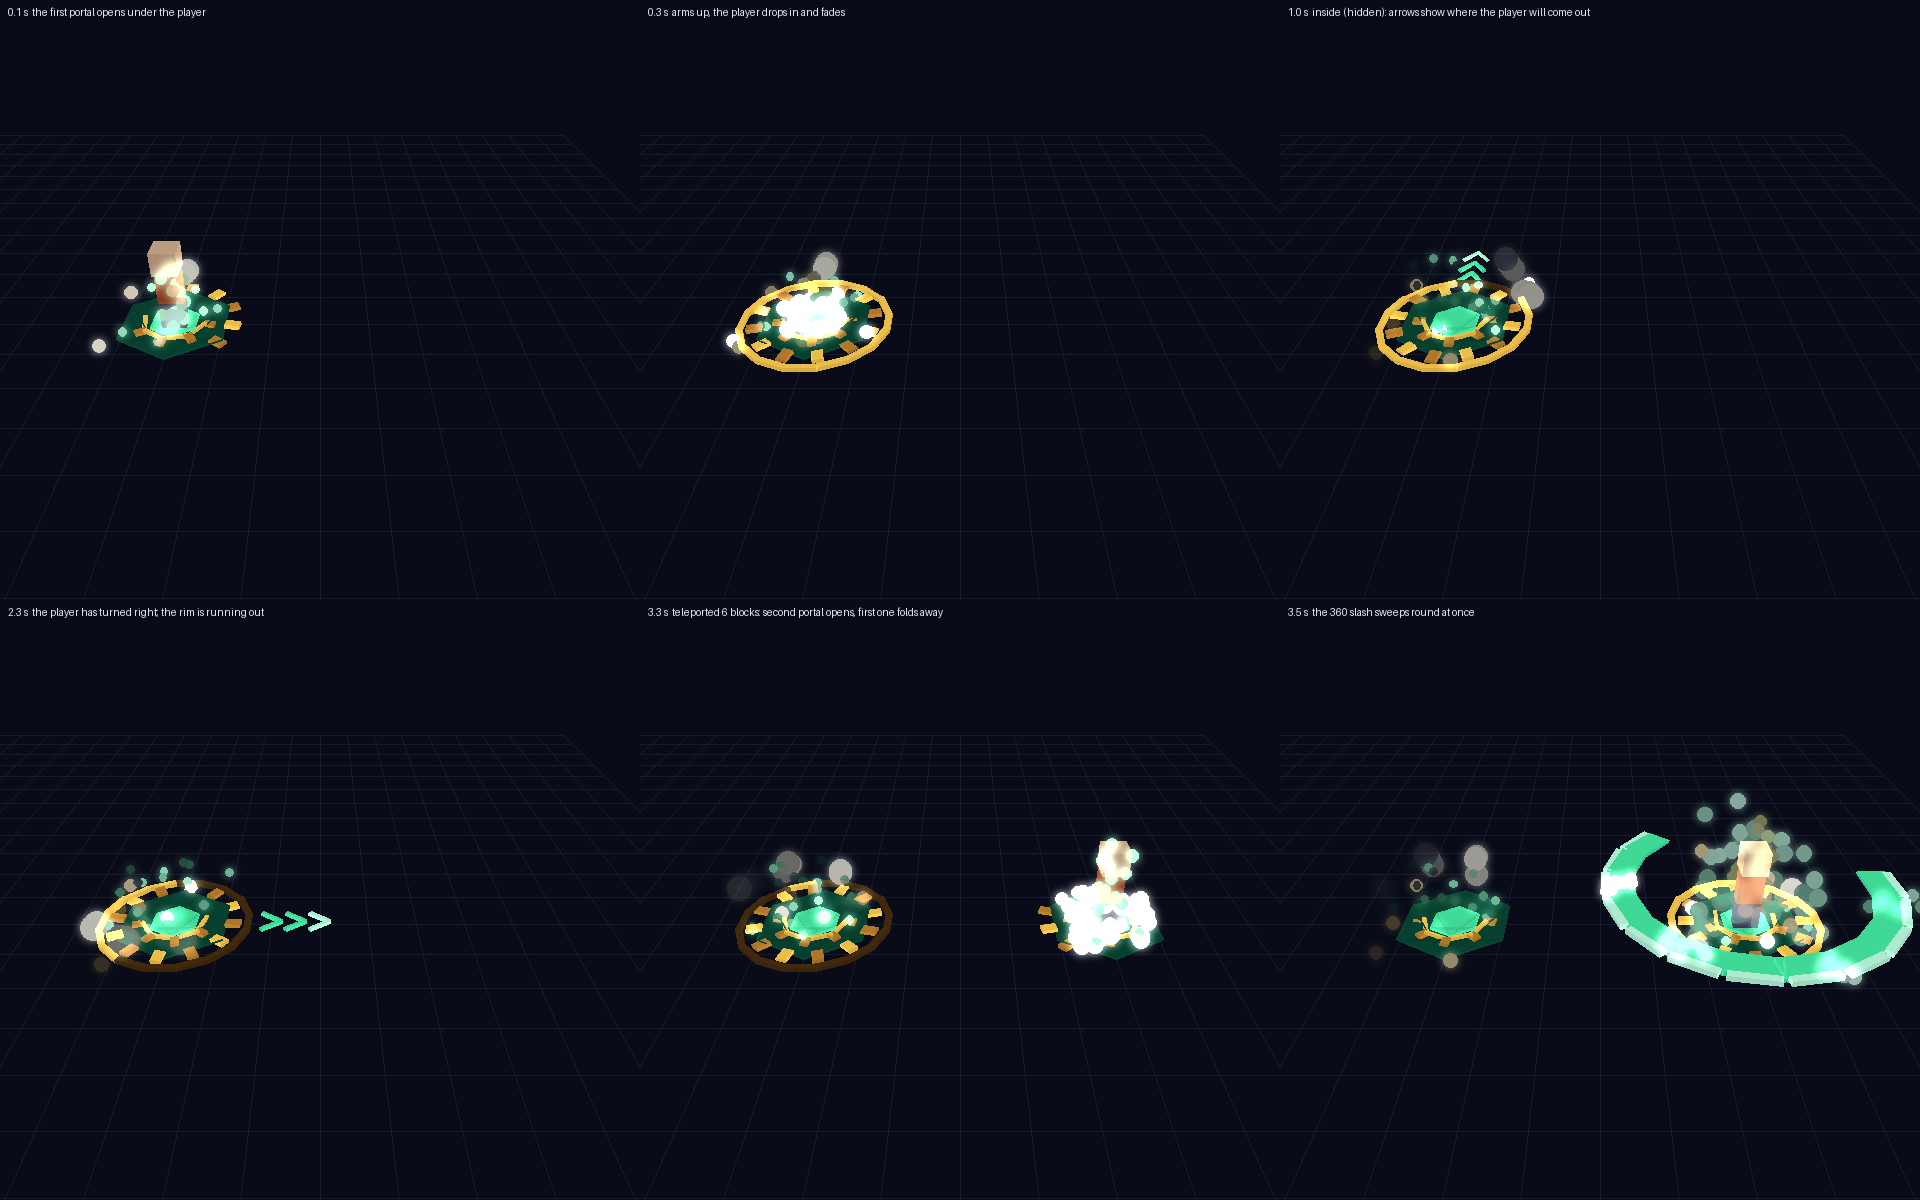
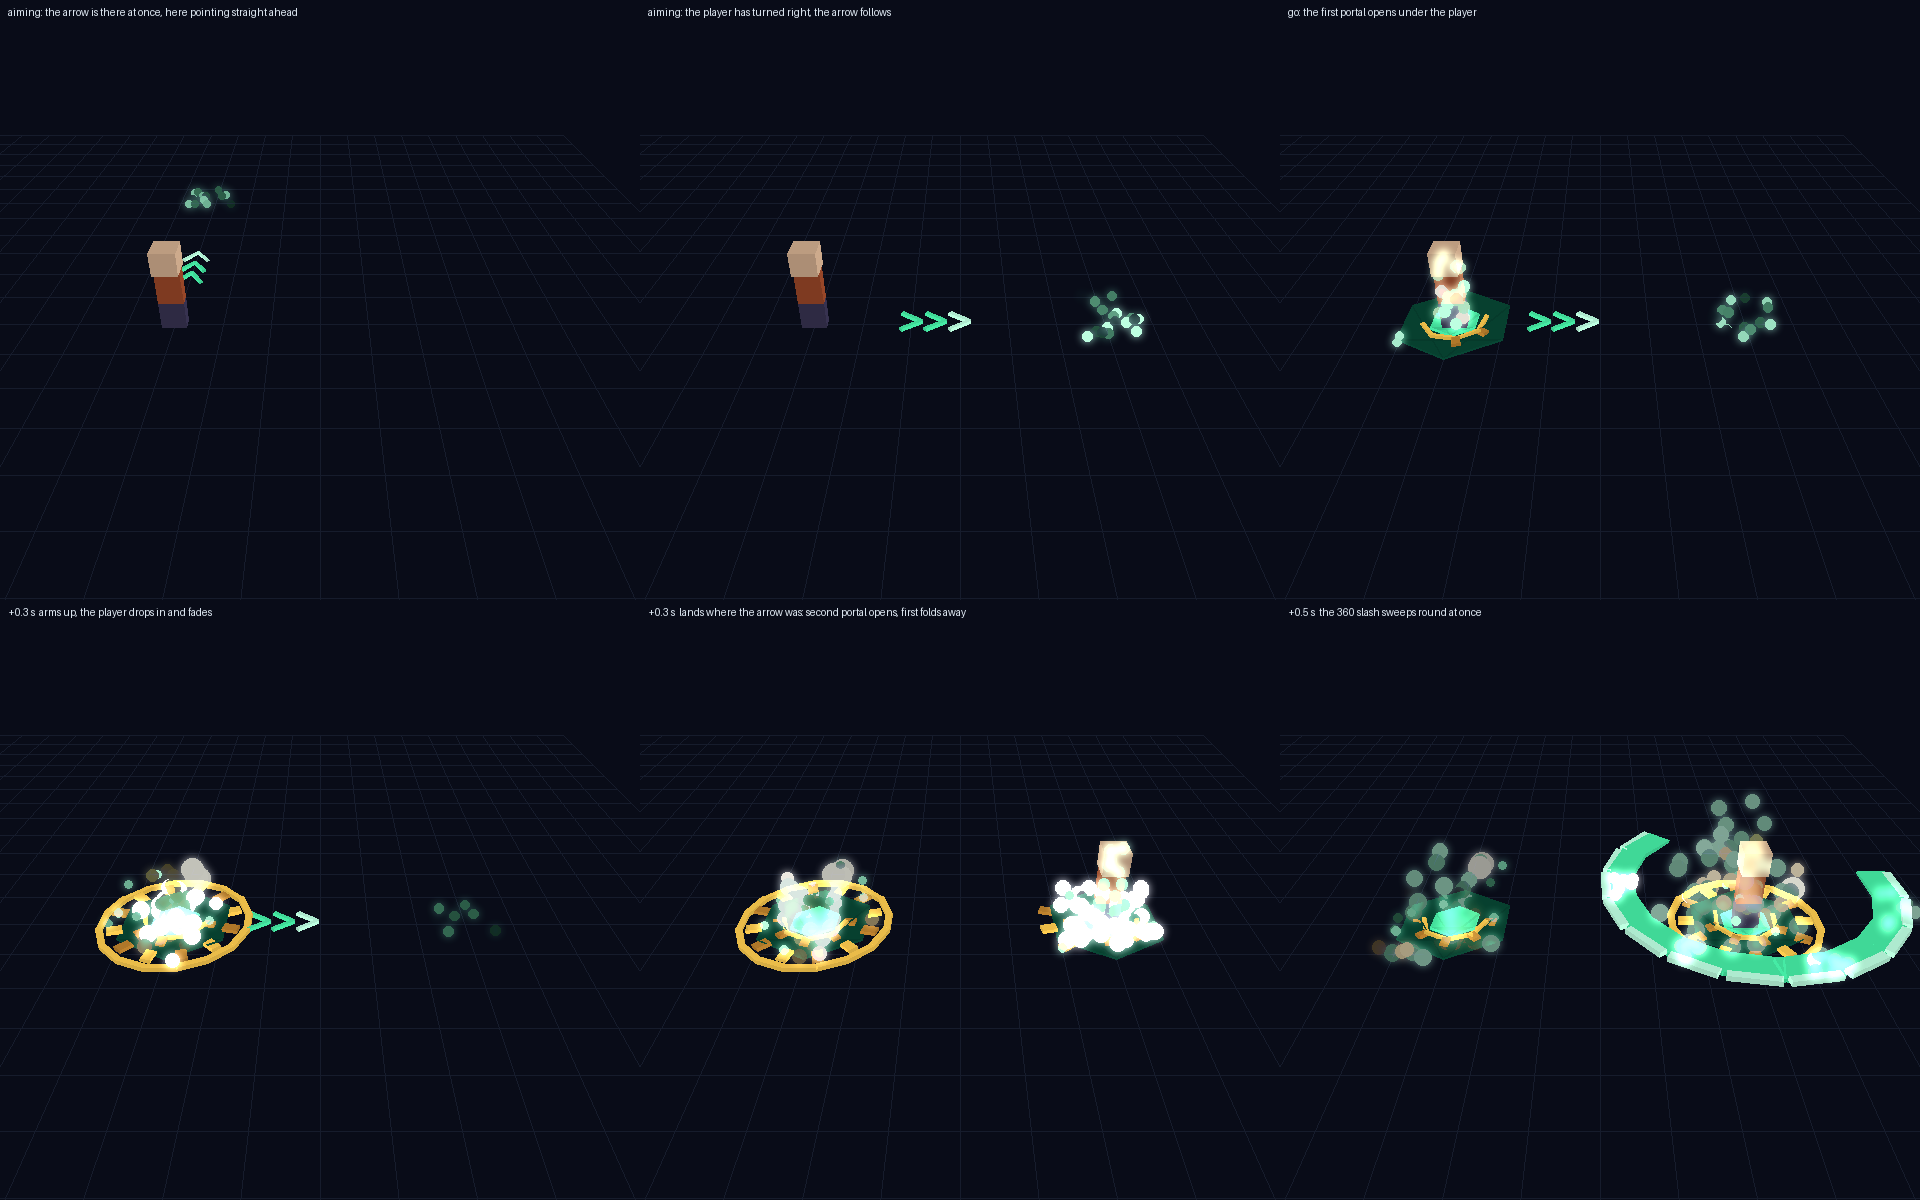
Gear Portal: arrow first, then the move goes where the arrow pointed

diff --git a/gear_portal/world_code.js b/gear_portal/world_code.js
@@ -1,7 +1,7 @@
 var GATE_CFG = {
   chat: "!portal",
   travel: 6,
-  stay: 3,
+  aimTime: 3,
   slashRadius: 3,
   damage: 25,
   knockback: 8,
@@ -11,7 +11,7 @@ var GATE_CFG = {
   nodeMeshes: true,
   hidePlayer: true,
   holdPlayer: true,
-  clickLeaves: true,
+  clickFires: true,
   groundArrow: true,
   sounds: true,
   size: 1,
@@ -252,7 +252,7 @@ function gateArrow(cast, moment) {
   }
   if (GATE_CFG.groundArrow && moment % 4 === 0) {
     try {
-      api.setClientOptions(cast.owner, { groundArrowPath: { target: [cast.centre[0] + cast.aim[0] * GATE_CFG.travel, cast.centre[1], cast.centre[2] + cast.aim[1] * GATE_CFG.travel], colour: "#46eba5" } })
+      api.setClientOptions(cast.owner, { groundArrowPath: { target: [cast.out[0], cast.out[1], cast.out[2]], colour: "#46eba5" } })
     } catch (err) {
       GATE_CFG.groundArrow = false
     }
@@ -337,26 +337,36 @@ function gateRun(cast, gate, moment) {
 function gateStep(cast) {
   var moment = cast.moment
   var scale = GATE_CFG.size
-  var mid = cast.centre
-  if (moment === 0) {
-    gateSound("open", mid)
+  if (cast.phase === "aim") {
+    var here = api.getPosition(cast.owner)
+    cast.centre = [here[0], here[1], here[2]]
+    cast.aim = gateFacing(cast.owner, cast.aim)
+    cast.out = gateReach(cast.centre, cast.aim, Math.min(15, GATE_CFG.travel))
+    gateArrow(cast, moment)
+    if (moment % 3 === 0) gateCloud([cast.out[0], cast.out[1] + 0.15, cast.out[2]], 0.7 * scale, 0.05, { life: 0.3, size: 0.12, count: 6, power: 0.3, dir1: [-0.2, 1, -0.2], dir2: [0.2, 1.5, 0.2], first: "mint", last: "jade" })
+    if (moment < Math.round(GATE_CFG.aimTime * 20) && !cast.wantOut) return false
+    cast.phase = "sink"
+    cast.fired = moment
+    cast.gates.push({ mid: cast.centre, parts: [], next: 0, each: Math.ceil(gatePlan.length / GATE_STEP.open), shut: false })
+    gateSound("open", cast.centre)
     gateWear(cast, true)
     gateAnimate(cast, GATE_POSE.rest, GATE_POSE.brace, 3)
   }
-  if (moment === 3) gateAnimate(cast, GATE_POSE.brace, GATE_POSE.drop, 3)
+  var mid = cast.centre
+  var since = moment - cast.fired
+  if (since === 3) gateAnimate(cast, GATE_POSE.brace, GATE_POSE.drop, 3)
   cast.gates.forEach((gate) => gateRun(cast, gate, moment))
   if (cast.phase === "sink") {
-    var high = 1.8 * (1 - (moment + 1) / GATE_STEP.sink)
+    var high = 1.8 * (1 - (since + 1) / GATE_STEP.sink)
     gateCloud([mid[0], mid[1] + high * 0.5 + 0.1, mid[2]], 0.3, high * 0.5 + 0.1, { life: 0.35, size: 0.14, count: 8, power: 1.2, dir1: [-0.3, -1.5, -0.3], dir2: [0.3, -0.8, 0.3], first: "mint", last: "gold" })
     if (GATE_CFG.holdPlayer) api.setPosition(cast.owner, mid[0], mid[1], mid[2])
-    if (GATE_CFG.hidePlayer && moment === GATE_STEP.sink - 3) {
+    if (GATE_CFG.hidePlayer && since === GATE_STEP.sink - 3) {
       try {
         api.setPlayerOpacity(cast.owner, 0.5)
       } catch (err) {}
     }
-    if (moment >= GATE_STEP.sink - 1) {
+    if (since >= GATE_STEP.sink - 1) {
       cast.phase = "inside"
-      cast.enter = moment + 1
       gateWear(cast, false)
       gateAnimate(cast, null)
       gateHold(cast, true)
@@ -365,24 +375,8 @@ function gateStep(cast) {
     return false
   }
   if (cast.phase === "inside") {
-    var waited = moment - cast.enter
-    cast.aim = gateFacing(cast.owner, cast.aim)
-    var where = api.getPosition(cast.owner)
-    if (GATE_CFG.holdPlayer && Math.hypot(where[0] - mid[0], where[2] - mid[2]) > 0.25) api.setPosition(cast.owner, mid[0], mid[1], mid[2])
-    var total = Math.round(GATE_CFG.stay * 20)
-    if (waited < total && !cast.wantOut) {
-      gateArrow(cast, moment)
-      var spent = Math.min(16, Math.floor((waited / total) * 16))
-      while (cast.rimGone < spent) {
-        var slot = cast.gates[0].parts.filter((part) => part.piece.rim === cast.rimGone)[0]
-        if (slot) api.updateMeshEntity(slot.ident, "Box", { width: slot.piece.wide * scale, height: slot.piece.tall * scale, depth: slot.piece.deep * scale, diffuseColor: [0, 0, 0], emissiveColor: GATE_COL.dark, hideDist: GATE_CFG.hideDist })
-        cast.rimGone++
-      }
-      return false
-    }
     cast.phase = "leave"
     cast.left = moment
-    cast.out = gateReach(mid, cast.aim, Math.min(15, GATE_CFG.travel))
     gateDrop(cast, cast.arrow.filter((made) => made))
     cast.arrow.length = 0
     gateHold(cast, false)
@@ -425,6 +419,11 @@ function gateEnd(cast) {
       api.setPlayerOpacity(cast.owner, 1)
     } catch (err) {}
   }
+  if (cast.phase === "aim" && GATE_CFG.groundArrow) {
+    try {
+      api.setClientOptions(cast.owner, { groundArrowPath: null })
+    } catch (err) {}
+  }
   gateWear(cast, false)
   gateAnimate(cast, null)
   gateDrop(cast, cast.made.slice())
@@ -452,7 +451,7 @@ function gateTick() {
 function gearPortal(playerId) {
   var mine = gateList.filter((cast) => cast.owner === playerId)[0]
   if (mine) {
-    if (mine.phase === "inside") mine.wantOut = true
+    if (mine.phase === "aim") mine.wantOut = true
     return false
   }
   if (gateList.length >= GATE_CFG.maxCasts) {
@@ -462,7 +461,7 @@ function gearPortal(playerId) {
   var where = api.getPosition(playerId)
   var face = gateFacing(playerId, [0, 1])
   var from = [where[0], where[1], where[2]]
-  gateList.push({ owner: playerId, moment: 0, phase: "sink", aim: face, centre: from, gates: [{ mid: from, parts: [], next: 0, each: Math.ceil(gatePlan.length / GATE_STEP.open), shut: false }], made: [], arrow: [], slash: [], hurt: {}, rimGone: 0, held: false, worn: false, wantOut: false })
+  gateList.push({ owner: playerId, moment: 0, phase: "aim", aim: face, centre: from, out: from, fired: 0, gates: [], made: [], arrow: [], slash: [], hurt: {}, held: false, worn: false, wantOut: false })
   return true
 }
 
@@ -482,8 +481,8 @@ onPlayerChat = (playerId, message) => {
 
 var gateOldClick = typeof onPlayerClick === "function" ? onPlayerClick : null
 onPlayerClick = (playerId, wasAlt, spotX, spotY, spotZ, block, target) => {
-  if (GATE_CFG.clickLeaves) {
-    var mine = gateList.filter((cast) => cast.owner === playerId && cast.phase === "inside")[0]
+  if (GATE_CFG.clickFires) {
+    var mine = gateList.filter((cast) => cast.owner === playerId && cast.phase === "aim")[0]
     if (mine) mine.wantOut = true
   }
   if (gateOldClick) return gateOldClick(playerId, wasAlt, spotX, spotY, spotZ, block, target)

diff --git a/gear_portal/tools/render.py b/gear_portal/tools/render.py
@@ -88,9 +88,9 @@ def draw(frame, eye, look, title, zoom=520):
 
 mid = (BASE[0] + 3, BASE[1] + 0.6, BASE[2])
 eye = (BASE[0] + 3, BASE[1] + 7.5, BASE[2] - 10.5)
-titles = ['0.1 s  the first portal opens under the player', '0.3 s  arms up, the player drops in and fades',
-          '1.0 s  inside (hidden): arrows show where the player will come out', '2.3 s  the player has turned right; the rim is running out',
-          '3.3 s  teleported 6 blocks: second portal opens, first one folds away', '3.5 s  the 360 slash sweeps round at once']
+titles = ['aiming: the arrow is there at once, here pointing straight ahead', 'aiming: the player has turned right, the arrow follows',
+          'go: the first portal opens under the player', '+0.3 s  arms up, the player drops in and fades',
+          '+0.3 s  lands where the arrow was: second portal opens, first folds away', '+0.5 s  the 360 slash sweeps round at once']
 sheet = Image.new('RGB', (W * 3, H * 2))
 for i, fr in enumerate(frames):
     sheet.paste(draw(fr, eye, mid, titles[i], 620), ((i % 3) * W, (i // 3) * H))

diff --git a/gear_portal/README.md b/gear_portal/README.md
@@ -1,6 +1,6 @@
 # Gear Portal (Move 1)
 
-A steampunk gear portal opens under the player and they drop in. They stay hidden for up to 3 seconds while picking a direction, are teleported forward, come out of a second portal and do a 360 slash at once.
+Use the move and an arrow appears at once, showing where you will land. Use it again (or click) and it goes off: a steampunk gear portal opens under you, you drop in, come out of a second portal where the arrow pointed, and do a 360 slash straight away.
 
 ![preview](preview/portal.png)
 
@@ -9,19 +9,20 @@ The picture is my own render of the test run, not a Bloxd screenshot. **The move
 ## How to use it
 
 1. Paste `world_code.js` (20k characters) into World Code.
-2. Type `!portal` in chat, or call `gearPortal(playerId)` from your own code.
+2. Type `!portal` in chat: the arrow appears. Turn to aim. Then click, or type `!portal` again, to do the move. (`gearPortal(playerId)` from your own code does the same: first call aims, second call goes.)
 3. Optional: paste `code_block.js` into a code block. Clicking the block casts the move for the player who clicked. It needs the World Code, because a code block runs only once per click and this move has to run for several seconds.
 
 ## What happens
 
-| Time | What you see |
+| Step | What you see |
 |---|---|
+| Aim (up to 3 s) | Three arrow heads on the floor in front of the player, there from the first tick, following where the player looks. Sparks mark the landing spot 6 blocks away. The caster also sees the game's own arrow strip. The player is visible and can walk; the arrow goes with them. |
+| Go | On a click, a second `!portal`, or by itself after 3 seconds. The landing spot is fixed at this moment. |
 | 0 – 0.3 s | The first portal opens under the player's feet. The player braces, throws the arms up, and fades as they drop in. |
-| 0.3 – 3.3 s | The player is invisible and held in the middle of the portal, and cannot be hurt. Arrow heads on the floor point where the player is looking. The gold rim goes dark piece by piece as a timer. |
-| leaving | After 3 seconds, or earlier on a click or a second `!portal`, the player is teleported 6 blocks in the direction they are looking. A second portal opens there and the first one folds away. |
-| + 0.4 s | Straight away the body turns a full 360 with arms out while a green band sweeps once round. Everything within 3 blocks takes 25 damage and is knocked away. Then the second portal folds away. |
+| 0.3 s | The player lands where the arrow pointed. The second portal opens there and the first one folds away. |
+| 0.35 – 0.75 s | The body turns a full 360 with arms out while a green band sweeps once round. Everything within 3 blocks takes 25 damage and is knocked away. Then the second portal folds away. |
 
-Set `stay` to 0 for no waiting at all: drop in, come out 6 blocks ahead, slash (about 1.2 seconds in total).
+Set `aimTime` to 0 for no aiming step: one use, and the move goes off straight ahead.
 
 A wall in the way shortens the teleport.
 
@@ -41,12 +42,12 @@ At most 99 meshes exist at once.
 | Name | Default | Meaning |
 |---|---|---|
 | `travel` | 6 | blocks teleported from the first portal to the second (15 at most) |
-| `stay` | 3 | seconds the player may stay inside; 0 = teleport at once |
+| `aimTime` | 3 | seconds the arrow is shown before the move goes off by itself; 0 = no aiming |
 | `slashRadius` | 3 | reach of the slash |
 | `damage`, `knockback` | 25, 8 | what the slash does |
 | `hitPlayers` | true | false = only mobs are hit |
-| `clickLeaves` | true | a click while inside leaves early |
-| `hidePlayer`, `holdPlayer` | true | invisible / cannot walk, jump or be hurt while inside |
+| `clickFires` | true | a click while aiming does the move |
+| `hidePlayer`, `holdPlayer` | true | invisible / held in place and safe for the moment inside the portal |
 | `animate`, `nodeMeshes`, `groundArrow`, `sounds` | true | switch a part off |
 | `flip` | 1 | set to -1 if the player bends backwards instead of forwards |
 
